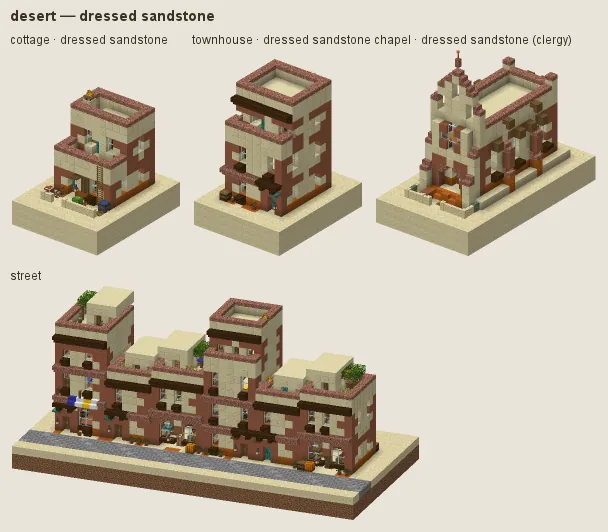
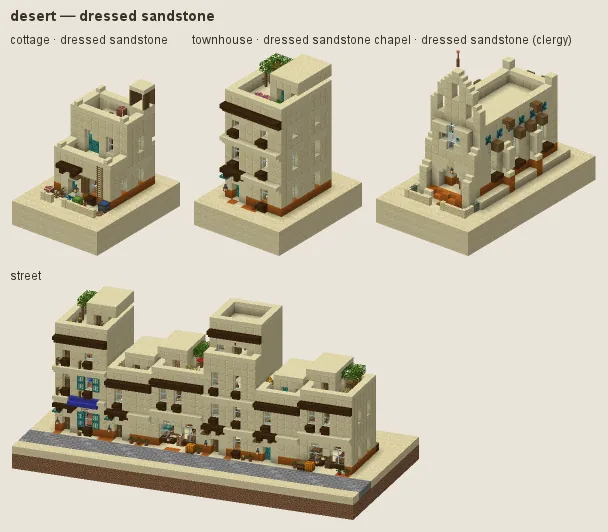
VOID Hearth styles: style bible for the new walls, re-rendered tropical, mesa, desert, steppe and karst sheets
Pages and contact sheets follow the palette pass; README section 8 gains the tonal-accent, no-bamboo-wall,
working-yard timber and noble-dress rules. docs/requests/w7-styles.md asks the code lanes for what the
palettes cannot fix (lintels, plain adobe facades, the stables lantern cap, fashions without base_when).

diff --git a/hearth/docs/buildings/styles/desert.md b/hearth/docs/buildings/styles/desert.md
@@ -1,6 +1,6 @@
 # Desert: sandstone and adobe
 
-North Africa and the Middle East: sandstone and adobe houses under flat roof terraces with parapets, red-banded walls, dark timber beams through the wall heads, blue doors, tile and awnings; earthen adobe for the poor and the workshops; dressed sandstone for merchants and public buildings; white palaces with domes.
+North Africa and the Middle East: sandstone and adobe houses under flat roof terraces with parapets, dark timber beams through the wall heads, blue doors, tile and awnings; earthen adobe for the poor and the workshops; dressed sandstone for merchants and public buildings; white palaces with domes.
 
 ![every dressing of the desert culture, on its cottage](img/desert_all.webp)
 
@@ -8,11 +8,11 @@ North Africa and the Middle East: sandstone and adobe houses under flat roof ter
 
 | dressing | worn by | walls | roof | built as |
 |---|---|---|---|---|
-| **town house** (common manner, w 2) | not (station gentry / lord) | smooth sandstone, sandstone, packed mud | smooth sandstone, sandstone | adobe |
+| **town house** (common manner, w 2) | not (station gentry / lord) | smooth sandstone, sandstone at the foot | smooth sandstone, sandstone | adobe |
 | · whitewashed (w 1) | as the common manner | white concrete, smooth quartz | · | adobe |
 | · mud brick (w 1) | as the common manner | mud bricks, packed mud | packed mud, mud bricks | adobe |
 | · red sandstone (w 0.8) | as the common manner | smooth red sandstone, red sandstone | smooth red sandstone | adobe |
-| **earthen adobe** (sub-style, w 5) | station poor / peasant or category farmstead / workshop | packed mud, mud bricks, sandstone | packed mud, mud bricks | adobe |
+| **earthen adobe** (sub-style, w 5) | station poor / peasant or category farmstead / workshop | packed mud, mud bricks | packed mud, mud bricks | adobe |
 | **dressed sandstone** (sub-style, w 8) | station merchant / official / clergy / scholar or category public / trade, tier 2+ | cut sandstone, smooth sandstone |  | stone |
 | **palace** (sub-style, w 8) | station gentry / lord or category grand / noble | smooth quartz, white concrete, calcite | smooth quartz, smooth sandstone | plaster |
 
@@ -20,19 +20,19 @@ A dash (·) keeps the material of the manner above. Weights compete among the dr
 
 ### Town house
 
-Smooth sandstone with sandstone at the foot and packed-mud patches, flat roofs and parapets, terracotta bands, spruce vigas. Fashions: **whitewashed** (with blue painted doors and shutters), **mud brick**, **red sandstone**.
+Smooth sandstone with sandstone at the foot, dressed in cut sandstone (lintels, arch heads and copings tonal with the wall), terracotta roof trim, flat roofs and parapets, spruce vigas. Fashions: **whitewashed** (with blue painted doors and shutters), **mud brick** (packed-mud dressings), **red sandstone** (cut red sandstone dressings).
 
 ![desert town house: cottage, town house, chapel and a street](img/desert_base_town_house.webp)
 
 ### Earthen adobe
 
-For the poor, farmsteads and workshops: packed mud and mud brick, battered walls, flat mud roofs.
+For the poor, farmsteads and workshops: packed mud with a little mud brick, mud-brick dressings, battered walls, flat mud roofs.
 
 ![desert earthen adobe: cottage, town house, chapel and a street](img/desert_v03_earthen_adobe.webp)
 
 ### Dressed sandstone
 
-For merchants, officials, the clergy, scholars and public and trade buildings: cut and smooth sandstone, dressed corners.
+For merchants, officials, the clergy, scholars and public and trade buildings: cut sandstone with smooth sandstone dressings and a smooth red sandstone plinth (the terracotta lintels read as brown blotches).
 
 ![desert dressed sandstone: cottage, town house, chapel and a street](img/desert_v04_dressed_sandstone.webp)
 
@@ -41,6 +41,8 @@ For merchants, officials, the clergy, scholars and public and trade buildings: c
 For the gentry and grand buildings: white render (quartz, concrete, calcite), domes in turquoise tile.
 
 ![desert palace: cottage, town house, chapel and a street](img/desert_v05_palace.webp)
+
+**Walls (art review 2 item 6, audit L7).** Each dressing's wall is one material with at most a tonal second (under 10 %, in broad patches) and weathering only at the foot. Its `wall_accent` is one material, tonal with the wall but not the wall's own block: lintels, arch heads, quoins and copings are cut of it, so a contrasting accent dotted every window with a blotch (white on terracotta, terracotta and brown on white). No mixed accents.
 
 ## Finish by station and tier
 

diff --git a/hearth/docs/buildings/styles/tropical.md b/hearth/docs/buildings/styles/tropical.md
@@ -1,6 +1,6 @@
 # Tropical: stilt houses under thatch
 
-Southeast Asia, the Pacific and the Caribbean coast: houses of palm wood and bamboo on stilts under deep hipped thatch, lattice openings, coral-stone colonial houses for merchants and the gentry, mossy jungle shrines.
+Southeast Asia, the Pacific and the Caribbean coast: houses of palm boards on stilts under deep hipped palm thatch, bamboo screens and lattices, lime-washed houses, lattice openings, coral-stone colonial houses for merchants and the gentry, mossy jungle shrines.
 
 ![every dressing of the tropical culture, on its cottage](img/tropical_all.webp)
 
@@ -8,35 +8,38 @@ Southeast Asia, the Pacific and the Caribbean coast: houses of palm wood and bam
 
 | dressing | worn by | walls | roof | built as |
 |---|---|---|---|---|
-| **stilt house** (common manner, w 2) | not (station gentry / lord or category religious) | bamboo planks, jungle | bamboo mosaic, bamboo planks | plank |
+| **stilt house** (common manner, w 2) | not (station gentry / lord or category religious) | palm boards (jungle without Expanse) | palm thatch: dark (spruce), oak-brown, or fresh straw, one per house | plank |
 | · jungle boards (w 1) | as the common manner | jungle | · | plank |
-| · thatched (w 1) | as the common manner | · | hay block | plank |
+| · lime-washed (w 0.8) | as the common manner | white terracotta, moss at the foot | · | plaster on a rubble plinth |
+| · thatched (w 1) | as the common manner | · | hay ridge over oak-brown slopes | plank |
 | **coral-stone colonial** (sub-style, w 8) | station merchant / official / gentry / lord or archetype civic/town_hall / commerce/bank / commerce/inn / house/manor / commerce/market_hall | calcite, smooth quartz, diorite | bricks, weathered cut copper | plaster under plank |
-| **jungle shrine** (sub-style, w 6) | category religious | mossy stone bricks, stone bricks, mossy cobblestone | bamboo mosaic, moss block patches | stone |
+| **jungle shrine** (sub-style, w 6) | category religious | mossy stone bricks, stone bricks, mossy cobblestone | dark palm thatch, moss block patches | stone |
 
 A dash (·) keeps the material of the manner above. Weights compete among the dressings whose conditions hold (README §2).
 
 ### Stilt house
 
-Bamboo and palm (jungle in previews) boards on stilts, deep hipped roofs of bamboo mosaic. Fashions: **jungle boards**, **thatched** (bright palm thatch).
+Palm boards (jungle in previews without Expanse) between dark posts and girts on stilts, deep hipped roofs of palm thatch in three tones (dark, oak-brown, fresh straw), chosen per house, so a town reads in two or three roof colours and not one straw yellow from afar (art review 2 item 15). Bamboo is kept for screens: lattice windows, doors, shutters, fences, rails and furniture; never a wall (audit L7: the lemon-yellow bamboo-plank walls). Fashions: **jungle boards** (darker), **lime-washed** (white lime render over rubble, the third wall colour of a town), **thatched** (thatch-form roofs).
 
 ![tropical stilt house: cottage, town house, chapel and a street](img/tropical_base_stilt_house.webp)
+
+![tropical lime-washed: cottage, town house, chapel and a street](img/tropical_v01_lime_washed.webp)
 
 ### Coral-stone colonial
 
 White coral render on a stone storey under boarded galleries, tile or patinated copper roofs.
 
-![tropical coral-stone colonial: cottage, town house, chapel and a street](img/tropical_v02_coral_stone_colonial.webp)
+![tropical coral-stone colonial: cottage, town house, chapel and a street](img/tropical_v03_coral_stone_colonial.webp)
 
 ### Jungle shrine
 
-Mossy stone brick under thatch and moss.
+Mossy stone brick under dark palm thatch and moss, dressed in stone brick.
 
-![tropical jungle shrine: cottage, town house, chapel and a street](img/tropical_v03_jungle_shrine.webp)
+![tropical jungle shrine: cottage, town house, chapel and a street](img/tropical_v04_jungle_shrine.webp)
 
 ## Finish by station and tier
 
-Tier 0 is bamboo under hay thatch; tier 3 has dark trim.
+Tier 0 is rough jungle boards under oak-brown or dark thatch; tier 3 has dark trim.
 
 ## Local materials
 
@@ -44,7 +47,7 @@ Local timber into boards and stilts.
 
 ## Still weak
 
-The bright bamboo thatch stays here (palm and grass thatch is pale in the tropics); in the temperate cultures thatch is aged and oak-brown.
+Palm boards are pale tan; without Expanse they fall back to jungle (pink-brown). The lattice and bamboo screens still read yellow up close, by design.
 
 ---
 

diff --git a/hearth/docs/buildings/styles/steppe.md b/hearth/docs/buildings/styles/steppe.md
@@ -12,30 +12,33 @@ The savanna, the steppe and the Sahel: round houses of mud plaster and dark timb
 | · felt yurt (w 1.4) | as the common manner | white felt, light grey felt | grey felt | plaster, always round, cone roof |
 | · mud brick (w 1) | as the common manner | mud bricks, packed mud | · | brick |
 | · timber (w 0.8) | as the common manner | dark oak boards | · | plank |
-| · lime white (w 0.6) | as the common manner | white terracotta, smooth sandstone | · | plaster |
+| · ochre loess (w 1) | as the common manner | smooth sandstone, sandstone, packed mud at the foot | · | plaster |
+| · lime white (w 0.8) | as the common manner | white terracotta, smooth sandstone | · | plaster |
 | · thatched (w 1) | as the common manner | · | hay block | plaster |
-| **sahel earthen hall** (sub-style, w 7) | category religious / grand / public or station gentry / lord / official / merchant | packed mud, mud bricks, terracotta | packed mud, mud bricks | adobe |
+| **sahel earthen hall** (sub-style, w 7) | category religious / grand / public or station gentry / lord / official / merchant | packed mud, mud bricks, coarse dirt at the foot | packed mud, mud bricks | adobe |
 | **herder's hut** (sub-style, w 3) | station poor or category farmstead | packed mud, mud bricks, coarse dirt at the foot | hay thatch | plaster |
 
 A dash (·) keeps the material of the manner above. Weights compete among the dressings whose conditions hold (README §2).
 
 ### Round house
 
-Mud plaster (packed mud, a patch of mud brick, earth at the foot) on mud-brick footings, dark timber, cone and hip roofs of felt (light grey or brown wool, one per house: white felt on a roof reads as snow). Baobab timber falls back to jungle wood (pale brown, as baobab is) without Expanse, not to orange acacia. Fashions: **felt yurt** (felt walls and roof, round), **mud brick**, **timber** (dark boards), **lime white**, **thatched** (grass thatch).
+Mud plaster (packed mud, a patch of mud brick, earth at the foot) on mud-brick footings, dark timber, cone and hip roofs of felt (light grey or brown wool, one per house: white felt on a roof reads as snow). Baobab timber falls back to jungle wood (pale brown, as baobab is) without Expanse, not to orange acacia. Fashions: **felt yurt** (felt walls and roof, round), **mud brick** (terracotta dressings), **timber** (dark boards), **ochre loess** (a pale earth plaster, art review 2 item 15), **lime white** (dressed in smooth sandstone, not mud brick), **thatched** (grass thatch).
 
 ![steppe round house: cottage, town house, chapel and a street](img/steppe_base_round_house.webp)
 
 ### Sahel earthen hall
 
-For public and grand buildings, the gentry and merchants: packed mud and mud brick, battered walls, vigas, flat roofs.
+For public and grand buildings, the gentry and merchants: packed mud with a little mud brick, terracotta lintels and copings (white terracotta read as pink spots), battered walls, vigas, flat roofs.
 
-![steppe sahel earthen hall: cottage, town house, chapel and a street](img/steppe_v03_sahel_earthen_hall.webp)
+![steppe sahel earthen hall: cottage, town house, chapel and a street](img/steppe_v06_sahel_earthen_hall.webp)
 
 ### Herder's hut
 
 For the poor and farmsteads: mud walls under grass thatch.
 
-![steppe herder's hut: cottage, town house, chapel and a street](img/steppe_v04_herder_s_hut.webp)
+![steppe herder's hut: cottage, town house, chapel and a street](img/steppe_v07_herder_s_hut.webp)
+
+**Walls (art review 2 item 6, audit L7).** Each dressing's wall is one material with at most a tonal second (under 10 %, in broad patches) and weathering only at the foot. Its `wall_accent` is one material, tonal with the wall but not the wall's own block: lintels, arch heads, quoins and copings are cut of it, so a contrasting accent dotted every window with a blotch (white on terracotta, terracotta and brown on white). No mixed accents.
 
 ## Finish by station and tier
 
@@ -43,7 +46,7 @@ Tier 0 is packed mud under hay; tier 3 limes the round house white (white terrac
 
 ## Local materials
 
-Local timber into frames and stakes.
+Local timber into frames and stakes. Working yards (category workshop) fell oak, not acacia.
 
 ## Still weak
 

diff --git a/hearth/docs/buildings/styles/mesa.md b/hearth/docs/buildings/styles/mesa.md
@@ -1,6 +1,6 @@
 # Mesa: pueblos in earth and terracotta
 
-The American Southwest: terraced adobe pueblos in earth and terracotta with lime-white bands, dark vigas, turquoise doors, ladders and roof terraces; cliff masonry of red sandstone; white missions.
+The American Southwest: terraced adobe pueblos in earth and terracotta, dark vigas, turquoise doors, ladders and roof terraces; cliff masonry of red sandstone; white missions.
 
 ![every dressing of the mesa culture, on its cottage](img/mesa_all.webp)
 
@@ -8,18 +8,18 @@ The American Southwest: terraced adobe pueblos in earth and terracotta with lime
 
 | dressing | worn by | walls | roof | built as |
 |---|---|---|---|---|
-| **pueblo** (common manner, w 2) | not (category religious) | terracotta, packed mud, light gray terracotta | mud bricks, packed mud | adobe |
+| **pueblo** (common manner, w 2) | not (category religious) | terracotta, a little granite, packed mud at the foot | mud bricks, packed mud | adobe |
 | · white (w 1) | as the common manner | white terracotta | · | adobe |
-| · rust (w 1) | as the common manner | orange terracotta, red terracotta | · | adobe |
+| · rust (w 1) | as the common manner | orange terracotta, a little red terracotta | · | adobe |
 | · red sandstone (w 1) | as the common manner | smooth red sandstone, red sandstone | · | adobe |
-| **cliff masonry** (sub-style, w 4) | station poor / peasant or landform steep or category farmstead / storage | red sandstone, cut red sandstone, terracotta |  | stone |
-| **mission** (sub-style, w 8) | category religious / grand or station gentry / lord / official | white terracotta, calcite, terracotta | bricks, mud bricks | adobe |
+| **cliff masonry** (sub-style, w 4) | station poor / peasant or landform steep or category farmstead / storage | red sandstone, cut red sandstone, packed mud at the foot |  | stone |
+| **mission** (sub-style, w 8) | category religious / grand or station gentry / lord / official | white terracotta, a little smooth sandstone, terracotta at the foot | bricks, mud bricks | adobe |
 
 A dash (·) keeps the material of the manner above. Weights compete among the dressings whose conditions hold (README §2).
 
 ### Pueblo
 
-Terracotta and packed mud with light-grey banding, flat roofs, spruce vigas. Fashions: **white**, **rust**, **red sandstone**.
+Terracotta with a tonal patch of granite and packed mud at the foot, dressed in polished granite (smooth sandstone on the white fashion, smooth red sandstone on rust, cut red sandstone on red sandstone), flat roofs, spruce vigas. Fashions: **white**, **rust**, **red sandstone**.
 
 ![mesa pueblo: cottage, town house, chapel and a street](img/mesa_base_pueblo.webp)
 
@@ -31,9 +31,11 @@ For the poor, steep ground, farmsteads and stores: red sandstone masonry.
 
 ### Mission
 
-For churches, grand buildings, the gentry and officials: white terracotta and calcite render under tile.
+For churches, grand buildings, the gentry and officials: white terracotta render dressed in smooth sandstone, under tile.
 
 ![mesa mission: cottage, town house, chapel and a street](img/mesa_v04_mission.webp)
+
+**Walls (art review 2 item 6, audit L7).** Each dressing's wall is one material with at most a tonal second (under 10 %, in broad patches) and weathering only at the foot. Its `wall_accent` is one material, tonal with the wall but not the wall's own block: lintels, arch heads, quoins and copings are cut of it, so a contrasting accent dotted every window with a blotch (white on terracotta, terracotta and brown on white). No mixed accents.
 
 ## Finish by station and tier
 
@@ -41,7 +43,7 @@ Tier 0 is packed mud with mud-brick bands; tier 3 paves in smooth sandstone.
 
 ## Local materials
 
-Local stone into masonry.
+Local stone into masonry. Working yards (category workshop: logging camp, charcoal burners, sawmill, woodlot) fell spruce, not the grey-barked acacia.
 
 ---
 

diff --git a/hearth/docs/buildings/styles/karst.md b/hearth/docs/buildings/styles/karst.md
@@ -1,6 +1,6 @@
-# Jade Karst: bamboo, dark timber and green tile
+# Jade Karst: fir boards, dark timber and green tile
 
-South China and Vietnam among the limestone towers: bamboo and dark timber on limestone sills, sweeping roofs of green-glazed tile with lifted corners, lattice windows; scholar-gentry courtyard houses in white walls under grey tile; red temples.
+South China and Vietnam among the limestone towers: fir boards in dark timber frames on limestone sills, rammed earth for the poor, bamboo for screens, doors and fences, sweeping roofs of green-glazed tile with lifted corners, lattice windows; scholar-gentry courtyard houses in white walls under grey tile; red temples.
 
 ![every dressing of the karst culture, on its cottage](img/karst_all.webp)
 
@@ -8,7 +8,7 @@ South China and Vietnam among the limestone towers: bamboo and dark timber on li
 
 | dressing | worn by | walls | roof | built as |
 |---|---|---|---|---|
-| **bamboo house** (common manner, w 2) | not (station gentry / lord / scholar or category religious) | bamboo planks, stripped bamboo block | dark prismarine, prismarine bricks | bamboo |
+| **fir house** (common manner, w 2) | not (station gentry / lord / scholar or category religious) | spruce (fir) boards | dark prismarine, prismarine bricks | bamboo |
 | · white walls, grey tiles (w 1.2) | as the common manner | smooth quartz, calcite | deepslate tiles | timber frame |
 | · red lacquer (w 1) | as the common manner | · | · | bamboo |
 | · teak boards (w 0.8) | as the common manner | jungle | deepslate tiles | plank |
@@ -18,11 +18,11 @@ South China and Vietnam among the limestone towers: bamboo and dark timber on li
 
 A dash (·) keeps the material of the manner above. Weights compete among the dressings whose conditions hold (README §2).
 
-### Bamboo house
+### Fir house
 
-Bamboo walls between dark oak posts on a stone sill, pagoda roofs of green-glazed tile (dark prismarine). Fashions: **white walls, grey tiles**, **red lacquer**, **teak boards**.
+Fir boards (spruce) between dark oak posts on a stone sill, bamboo doors, shutters and fences, pagoda roofs of green-glazed tile (dark prismarine). Fashions: **white walls, grey tiles**, **red lacquer**, **teak boards**.
 
-![karst bamboo house: cottage, town house, chapel and a street](img/karst_base_bamboo_house.webp)
+![karst fir house: cottage, town house, chapel and a street](img/karst_base_fir_house.webp)
 
 ### Scholar's courtyard
 
@@ -38,11 +38,13 @@ Red walls, green tile, carved stone.
 
 ## Finish by station and tier
 
-Tier 0 is bamboo under hay; tier 3 has dark railings and carved limestone.
+Tier 0 is rammed earth (packed mud) under oak-brown thatch; tier 3 has dark railings and carved limestone.
 
 ## Local materials
 
-Local stone into sills and platforms.
+Local stone into sills and platforms. Working yards (category workshop: logging camp, charcoal burners, sawmill, woodlot) fell and plant fir (spruce), not cherry: the pink billets and blossom woodlot (audit L7 item 3).
+
+No bamboo planks as a wall (audit L7: lemon-yellow walls); bamboo stays in screens, doors, fences and trim.
 
 ## Still weak
 

diff --git a/hearth/docs/requests/w7-styles.md b/hearth/docs/requests/w7-styles.md
@@ -1,0 +1,38 @@
+# Wave 7 requests from the styles lane (L7 / T6)
+
+What the palettes cannot fix on their own, for the lanes that own the code.
+
+## 1. Stables ridge lantern (L5, `noble/Stables`)
+
+The tundra stables now wear the fire hall (deepslate tiles), not the sod longhouse, so the turf cap is gone there. But
+`Stables.lantern` still caps the lantern in `Turret.cap` of the roof material: a sod or thatch roof anywhere would give
+it a grass or hay cap again. Cap it in boards or shingle (`ROOF_TRIM`), never turf (audit G5 stables #3).
+
+## 2. Plain adobe walls and `dominant_share` (L2, L4, L5)
+
+Under review 1's rule (a second material under 10 %, tonal) a plain adobe or mud-brick facade is about 0.9 one block:
+the steppe mud-brick halls (watch house, courthouse 0.97, bank 0.90, alchemist tower 0.91), the mesa gallows and
+hunting lodge. The palette cannot lower that without mottling again. What lowers it is architecture: vigas and canales
+at the wall head, window frames and sills, a plinth course, pilasters every three, a ramada. Those are archetype/kit
+work (`kit/civic/Adobe`, `kit/homestead/Adobe`, the law and civic archetypes).
+
+## 3. Lintels in `WALL_ACCENT` (L1 or whoever owns `kit/Openings`)
+
+`Openings` heads every window and door of a stone, brick, plaster or adobe wall with one full `WALL_ACCENT` block
+(and arched windows with accent stairs). That is why a contrasting accent mottles a facade: every window gets a patch.
+The styles now keep accents tonal, but a lintel the width of the opening plus one each side, or the wall's own stair
+upside down (art review 2 item 23), would read as a lintel and not a blotch in every culture.
+
+## 4. Variants without `base_when` (L7 follow-up or the style loader's owner)
+
+A fashion (`variants` entry) does not inherit the culture's `base_when`, so the steppe town hall (category grand, which
+`base_when` excludes) can still draw **felt yurt** (the sheet labels it so) and is built in felt-yurt dressing over its
+own tradition's plan. Either fashions should inherit `base_when`, or each needs its own `when`. Left as is in this wave
+because changing the draw reshuffles every culture's dressings.
+
+## 5. Glade region birch in working yards
+
+`region/glade.json` sets `tree_log` to oak and birch; a culture's `overrides` win over the region, but only the
+cultures whose own tree is cherry, mangrove, birch or acacia got a `workshop` override (karst, bayou, moorland, wisteria,
+mesa, steppe). A temperate or alpine logging camp in a glade can still stack birch billets. Either a region-level
+override for `workshop` or `Works.logs` choosing the frame wood for billets would close it.

diff --git a/hearth/docs/buildings/styles/README.md b/hearth/docs/buildings/styles/README.md
@@ -196,6 +196,19 @@ the region pages carry in-game screenshots too. Every blueprint drawn is checked
   render) or a light one on rubble, and one material, not a mix (a mixed accent checkers twice over). The kits enforce
   it (`Walls.quoined`, `Walls.tonal`): no quoins on a building under 9 wide or dressed below tier 2, and an accent more
   than 45 apart in lightness (by map colour) from the walling stays a plain corner strip, untoothed.
+- The `wall_accent` heads every lintel, arch, door head and coping on stone, brick, render and adobe walls, so it shows
+  as a block over every window: one material, tonal with the wall and not the wall's own block (polished granite on
+  terracotta, cut sandstone on smooth sandstone, mud brick on packed mud, smooth sandstone on white terracotta). A
+  contrasting or mixed accent mottles the facade (art review 2 items 6 and 23, the dry cultures' blotches).
+- No bamboo planks as a wall or gable (audit L7: lemon-yellow towns from afar); bamboo is for screens, doors, fences,
+  railings, furniture and trim. Give a culture two or three wall and roof families at town scale (fashions, and
+  per-building roof entries such as the tropical dark, oak-brown and straw thatch), so a town is not one colour from 100
+  blocks (art review 2 item 15).
+- Working yards fell timber (audit L7): a culture whose garden tree is cherry, mangrove, birch or acacia gives the
+  `workshop` category spruce, oak or dark oak `tree_log` and `tree_leaves` by an `overrides` entry, so billets, log decks
+  and woodlots are not pink, red, white or grey-barked.
+- Noble archetypes wear the gentry's dressing: a rustic sub-style that answers `farmstead` (sod, rubble, cliff masonry,
+  herders' huts) says `"not": {"categories": ["noble"]}` in that clause, so the lord's stables are not a sod hut.
 - No birch bark on the surface: a light local timber's posts and stakes are hewn (`LocalMaterials.hewn`), and a
   culture whose garden tree is birch gives its palisades their own stakes (an `overrides` entry for `fort`).
 - Wall roles of terracotta, wool or concrete have no stairs or slabs: give the entry per-form overrides

diff --git a/hearth/docs/buildings/styles/moorland.md b/hearth/docs/buildings/styles/moorland.md
@@ -47,7 +47,7 @@ Slate-roofed dressings roof tier 0 in rough cobbled deepslate (old stone slates)
 
 ## Local materials
 
-Local stone goes into everything that is stone, graded as the culture grades it. Palisades are dark spruce stakes (an override), never the birch bark of the garden trees.
+Local stone goes into everything that is stone, graded as the culture grades it. Palisades are dark spruce stakes (an override), never the birch bark of the garden trees. Working yards (category workshop) fell spruce (Scots pine), not birch.
 
 ---
 

diff --git a/hearth/docs/buildings/styles/wisteria.md b/hearth/docs/buildings/styles/wisteria.md
@@ -40,7 +40,7 @@ Tier 0 is packed mud and calcite under brick and mud-brick tile mended with moss
 
 ## Local materials
 
-Local timber and stone blend as for every culture (README §4); light local woods go into boards and floors, never the frames.
+Local timber and stone blend as for every culture (README §4); light local woods go into boards and floors, never the frames. Working yards (category workshop) fell oak only.
 
 ## Still weak
 

diff --git a/hearth/docs/buildings/styles/tundra.md b/hearth/docs/buildings/styles/tundra.md
@@ -40,7 +40,7 @@ Tier 0 is old spruce shingles with a little moss; tier 3 slate. Cloth is madder 
 
 ## Local materials
 
-Local timber becomes hewn log walls.
+Local timber becomes hewn log walls. The sod longhouse is never a noble building's dressing: the lord's stables wear the fire hall (audit L7 item 4).
 
 ---
 

diff --git a/hearth/docs/buildings/styles/bayou.md b/hearth/docs/buildings/styles/bayou.md
@@ -41,7 +41,7 @@ Tier 0 is mixed boards under exposed copper and spruce; tier 3 roofs in slate.
 
 ## Local materials
 
-Local timber into boards and stilts.
+Local timber into boards and stilts. Working yards (category workshop) fell dark oak, not red mangrove.
 
 ---
 
